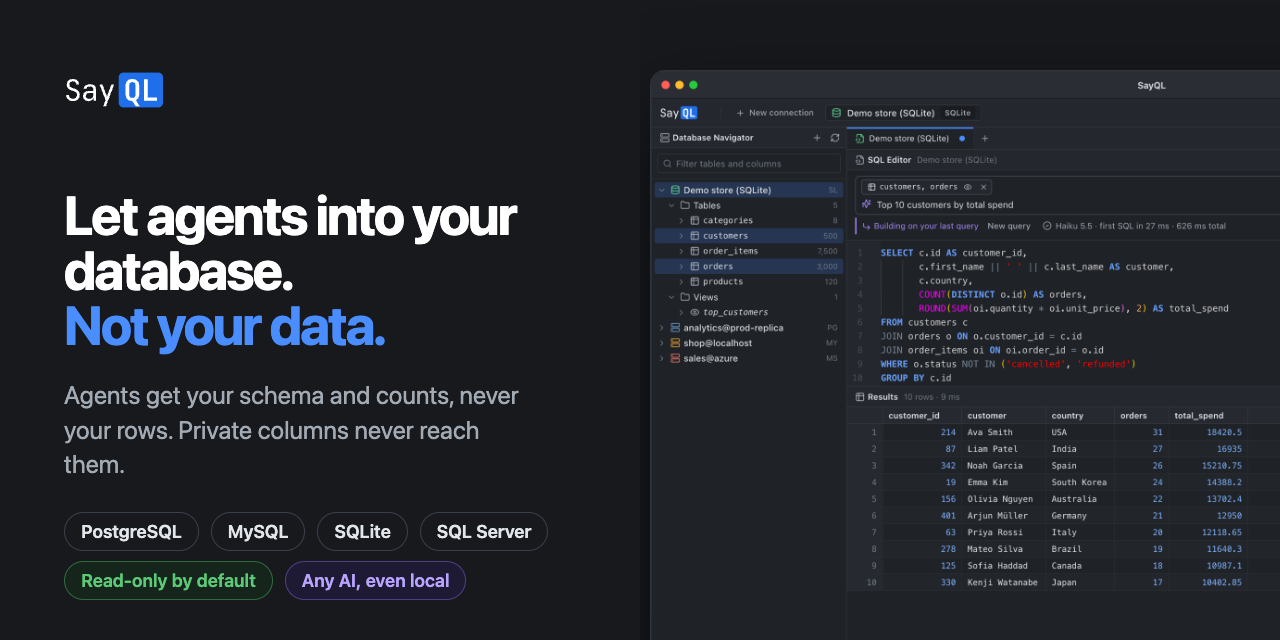
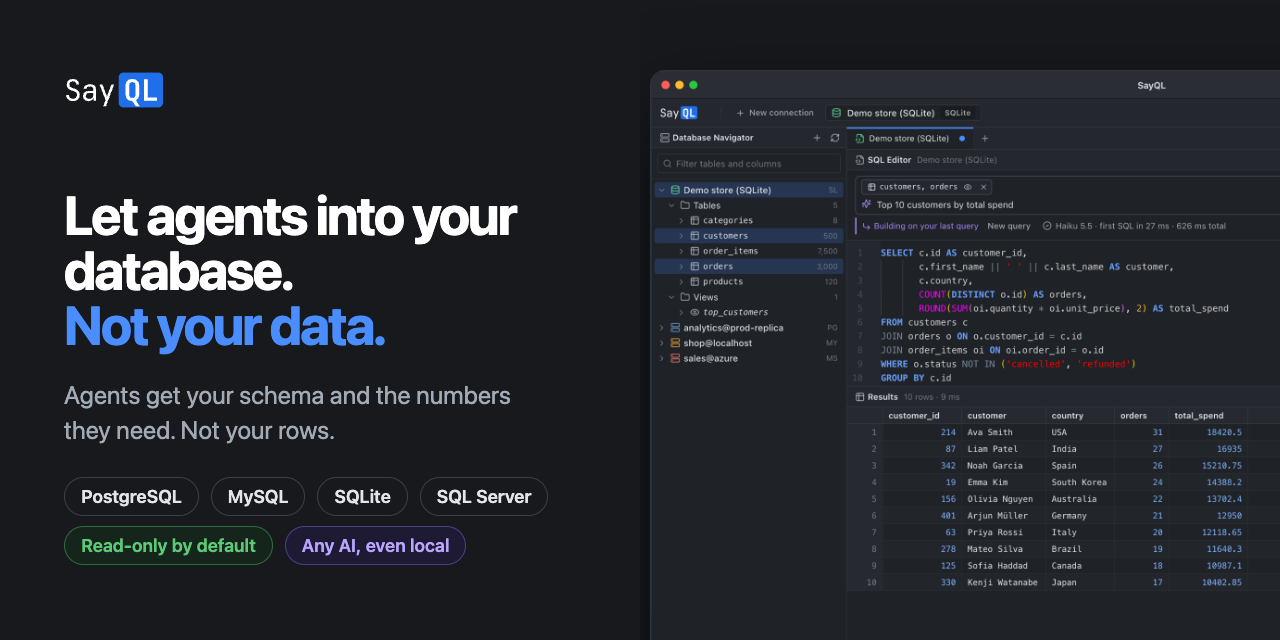
Hero: SayQL sits between AI agents and your database

Changed region(s): [[0.0312, 0.7188, 0.4375, 0.9375], [0.0312, 0.5938, 0.4062, 0.6875]]

diff --git a/site/index.html b/site/index.html
@@ -4,7 +4,7 @@
 <meta charset="utf-8">
 <meta name="viewport" content="width=device-width, initial-scale=1, viewport-fit=cover">
 <title>SayQL — Let agents into your database, not your data</title>
-<meta name="description" content="Let AI agents like Claude Code and Cursor query your database through SayQL: by default they get your schema and counts, never your rows, and columns you mark private never reach them. Ask in plain English too. Free, open source, read-only by default, with any AI, even a local one.">
+<meta name="description" content="SayQL sits between AI agents and your database: Claude Code, Cursor and others get your schema and the numbers they need, not your rows, unless you say so. Ask in plain English too. Free, open source, read-only by default.">
 <link rel="canonical" href="https://sayql.dev/">
 <!-- Google Search Console ownership (keep: removing it unverifies the site). -->
 <meta name="google-site-verification" content="ktg5VtoD0k50gmQBolDbm-8qMUjWoKcPVF8dPizsTO4">
@@ -12,7 +12,7 @@
 <meta property="og:type" content="website">
 <meta property="og:site_name" content="SayQL">
 <meta property="og:title" content="SayQL — Let agents into your database, not your data">
-<meta property="og:description" content="Let AI agents like Claude Code and Cursor query your database through SayQL: by default they get your schema and counts, never your rows, and columns you mark private never reach them. Ask in plain English too. Free, open source, read-only by default, with any AI, even a local one.">
+<meta property="og:description" content="SayQL sits between AI agents and your database: Claude Code, Cursor and others get your schema and the numbers they need, not your rows, unless you say so. Ask in plain English too. Free, open source, read-only by default.">
 <meta property="og:url" content="https://sayql.dev/">
 <meta property="og:image" content="https://sayql.dev/og.png">
 <meta property="og:image:width" content="1280">
@@ -20,7 +20,7 @@
 <meta property="og:image:alt" content="SayQL: Let agents into your database. Not your data.">
 <meta name="twitter:card" content="summary_large_image">
 <meta name="twitter:title" content="SayQL — Free AI SQL client: plain English to safe SQL">
-<meta name="twitter:description" content="Let AI agents like Claude Code and Cursor query your database through SayQL: by default they get your schema and counts, never your rows, and columns you mark private never reach them. Ask in plain English too. Free, open source, read-only by default, with any AI, even a local one.">
+<meta name="twitter:description" content="SayQL sits between AI agents and your database: Claude Code, Cursor and others get your schema and the numbers they need, not your rows, unless you say so. Ask in plain English too. Free, open source, read-only by default.">
 <meta name="twitter:image" content="https://sayql.dev/og.png">
 <meta name="theme-color" content="#f6f7f9" media="(prefers-color-scheme: light)">
 <meta name="theme-color" content="#17191d" media="(prefers-color-scheme: dark)">
@@ -694,7 +694,7 @@ section.block { padding: 80px 0 0; }
 </style>
 <!-- Vercel Web Analytics: page views only, no cookies, no personal data. -->
 <script defer src="/_vercel/insights/script.js"></script>
-<script type="application/ld+json">{"@context": "https://schema.org", "@type": "SoftwareApplication", "name": "SayQL", "alternateName": "SayQL Community Edition", "description": "Let AI agents like Claude Code and Cursor query your database through SayQL: by default they get your schema and counts, never your rows, and columns you mark private never reach them. Ask in plain English too. Free, open source, read-only by default, with any AI, even a local one.", "url": "https://sayql.dev/", "image": "https://sayql.dev/og.png", "applicationCategory": "DeveloperApplication", "operatingSystem": "macOS, Windows, Linux", "downloadUrl": "https://github.com/dithzz/sayql-releases/releases/latest", "license": "https://www.apache.org/licenses/LICENSE-2.0", "isAccessibleForFree": true, "offers": {"@type": "Offer", "price": "0", "priceCurrency": "USD"}, "author": {"@type": "Person", "name": "Adith L S", "url": "https://github.com/dithzz"}, "sameAs": ["https://github.com/dithzz/sayql"]}</script>
+<script type="application/ld+json">{"@context": "https://schema.org", "@type": "SoftwareApplication", "name": "SayQL", "alternateName": "SayQL Community Edition", "description": "SayQL sits between AI agents and your database: Claude Code, Cursor and others get your schema and the numbers they need, not your rows, unless you say so. Ask in plain English too. Free, open source, read-only by default.", "url": "https://sayql.dev/", "image": "https://sayql.dev/og.png", "applicationCategory": "DeveloperApplication", "operatingSystem": "macOS, Windows, Linux", "downloadUrl": "https://github.com/dithzz/sayql-releases/releases/latest", "license": "https://www.apache.org/licenses/LICENSE-2.0", "isAccessibleForFree": true, "offers": {"@type": "Offer", "price": "0", "priceCurrency": "USD"}, "author": {"@type": "Person", "name": "Adith L S", "url": "https://github.com/dithzz"}, "sameAs": ["https://github.com/dithzz/sayql"]}</script>
 <script type="application/ld+json">{"@context": "https://schema.org", "@type": "WebSite", "name": "SayQL", "url": "https://sayql.dev/"}</script>
 <!-- faq-jsonld --><script type="application/ld+json">{"@context": "https://schema.org", "@type": "FAQPage", "mainEntity": [{"@type": "Question", "name": "What is SayQL?", "acceptedAnswer": {"@type": "Answer", "text": "A free, open-source desktop app that lets you and your AI apps query databases in plain English (text-to-SQL) without handing your data to the AI: it sees your schema, not your rows, unless you choose. It works with PostgreSQL, MySQL, SQLite and SQL Server and the AI you pick, including one that runs on your computer, and runs queries read-only. SayQL for teams adds a server you run, with rules for the AI and a record of every query."}}, {"@type": "Question", "name": "Do I need to know SQL?", "acceptedAnswer": {"@type": "Answer", "text": "No. The SQL is always in front of you, so you’ll pick it up along the way."}}, {"@type": "Question", "name": "What does the AI see?", "acceptedAnswer": {"@type": "Answer", "text": "Your question and your table and column names. When a query fails, the SQL and the error, with any values in it masked. Never the rows in your tables, unless you allow it per connection, for agent mode or for AI apps over MCP, and then only what you allow. With Ollama or LM Studio, nothing leaves your computer."}}, {"@type": "Question", "name": "Can it break my database?", "acceptedAnswer": {"@type": "Answer", "text": "Queries run read-only, and the database enforces it too. An UPDATE or DELETE always stops for your confirmation first."}}, {"@type": "Question", "name": "Can our AI agents use SayQL?", "acceptedAnswer": {"@type": "Answer", "text": "Yes, and they don't get your data unless you say so. Claude Code, Cursor and other apps that support MCP query your connections through SayQL on your computer, read-only. By default they get counts and column summaries, not rows; per connection you can allow nothing, masked rows or all rows, and columns marked never send stay out at every level. They can also hand you a query to review and run in SayQL. On team connections, SayQL's agent mode follows your admin's rules and every query is on record. A gateway on the team server for your own AI agents is next; choose For our AI agents in the SayQL for teams form to get it early."}}, {"@type": "Question", "name": "What does it cost?", "acceptedAnswer": {"@type": "Answer", "text": "SayQL is free. You pay your AI provider for what you use, with your own key, or nothing with a local model. SayQL for teams, a server your company runs for shared connections and an audit log, is free for 30 days, then $149 a month for up to 10 people."}}, {"@type": "Question", "name": "Can I use SayQL without an AI key?", "acceptedAnswer": {"@type": "Answer", "text": "Yes. Run a model on your computer with Ollama or LM Studio, at no cost, or use SayQL AI credits: prepaid Claude from SayQL, with no Anthropic account. With credits, your question and table names go through SayQL to Anthropic, and SayQL keeps only token counts."}}, {"@type": "Question", "name": "Where does my data go with SayQL for teams?", "acceptedAnswer": {"@type": "Answer", "text": "Nowhere near us. The server runs on your machines: passwords, queries and the audit log stay there, and the licence is checked offline. The one exception is SayQL AI credits, if your admin chooses them: AI requests then pass through SayQL on their way to Anthropic, and only token counts are kept."}}, {"@type": "Question", "name": "What happens when the trial ends?", "acceptedAnswer": {"@type": "Answer", "text": "Queries on team connections pause until an admin pastes a licence key on the admin page. Nothing is deleted, and everyone’s own SayQL keeps working as before."}}, {"@type": "Question", "name": "Why does my computer warn me on first launch?", "acceptedAnswer": {"@type": "Answer", "text": "Early-access builds aren’t code-signed with Apple or Microsoft yet. Confirm the first launch once and it opens normally after that. Updates are signed with SayQL’s own key."}}]}</script><!-- /faq-jsonld -->
 </head>
@@ -768,7 +768,7 @@ section.block { padding: 80px 0 0; }
   <div class="wrap">
     <a class="eyebrow" href="#teams"><span class="tag">New</span><span>SayQL for teams<span class="long">: one command, free for 30 days</span></span></a>
     <h1>Let agents into your database. <span>Not your data.</span></h1>
-    <p class="lede">Agents like Claude Code and Cursor query your database through SayQL, and you ask in plain English. By default the AI gets your schema and counts, never your rows, and columns you mark private never reach it.</p>
+    <p class="lede">SayQL sits between AI agents and your database. They get your schema and the numbers they need, not your rows, unless you say so.</p>
     <div class="actions">
       <a class="btn btn-primary btn-lg" href="/download/" data-dl="auto"><svg class="icon"><use href="#i-download"/></svg><span data-dl-label>Download for free</span></a>
       <a class="btn btn-lg" href="https://github.com/dithzz/sayql"><svg class="icon"><use href="#i-github"/></svg>View on GitHub</a>

diff --git a/README.md b/README.md
@@ -9,8 +9,8 @@
 
 ### Let agents into your database. Not your data.
 
-Agents like Claude Code and Cursor query your database through SayQL, and you ask in plain English.<br>
-By default the AI gets your schema and counts, never your rows. Read-only, with any AI, even a local one.
+SayQL sits between AI agents and your database.<br>
+They get your schema and the numbers they need, not your rows, unless you say so.
 
 [![Latest release](https://img.shields.io/github/v/release/dithzz/sayql-releases?label=release&color=1f6feb)](https://github.com/dithzz/sayql-releases/releases/latest)
 [![CI](https://github.com/dithzz/sayql/actions/workflows/ci.yml/badge.svg)](https://github.com/dithzz/sayql/actions/workflows/ci.yml)
